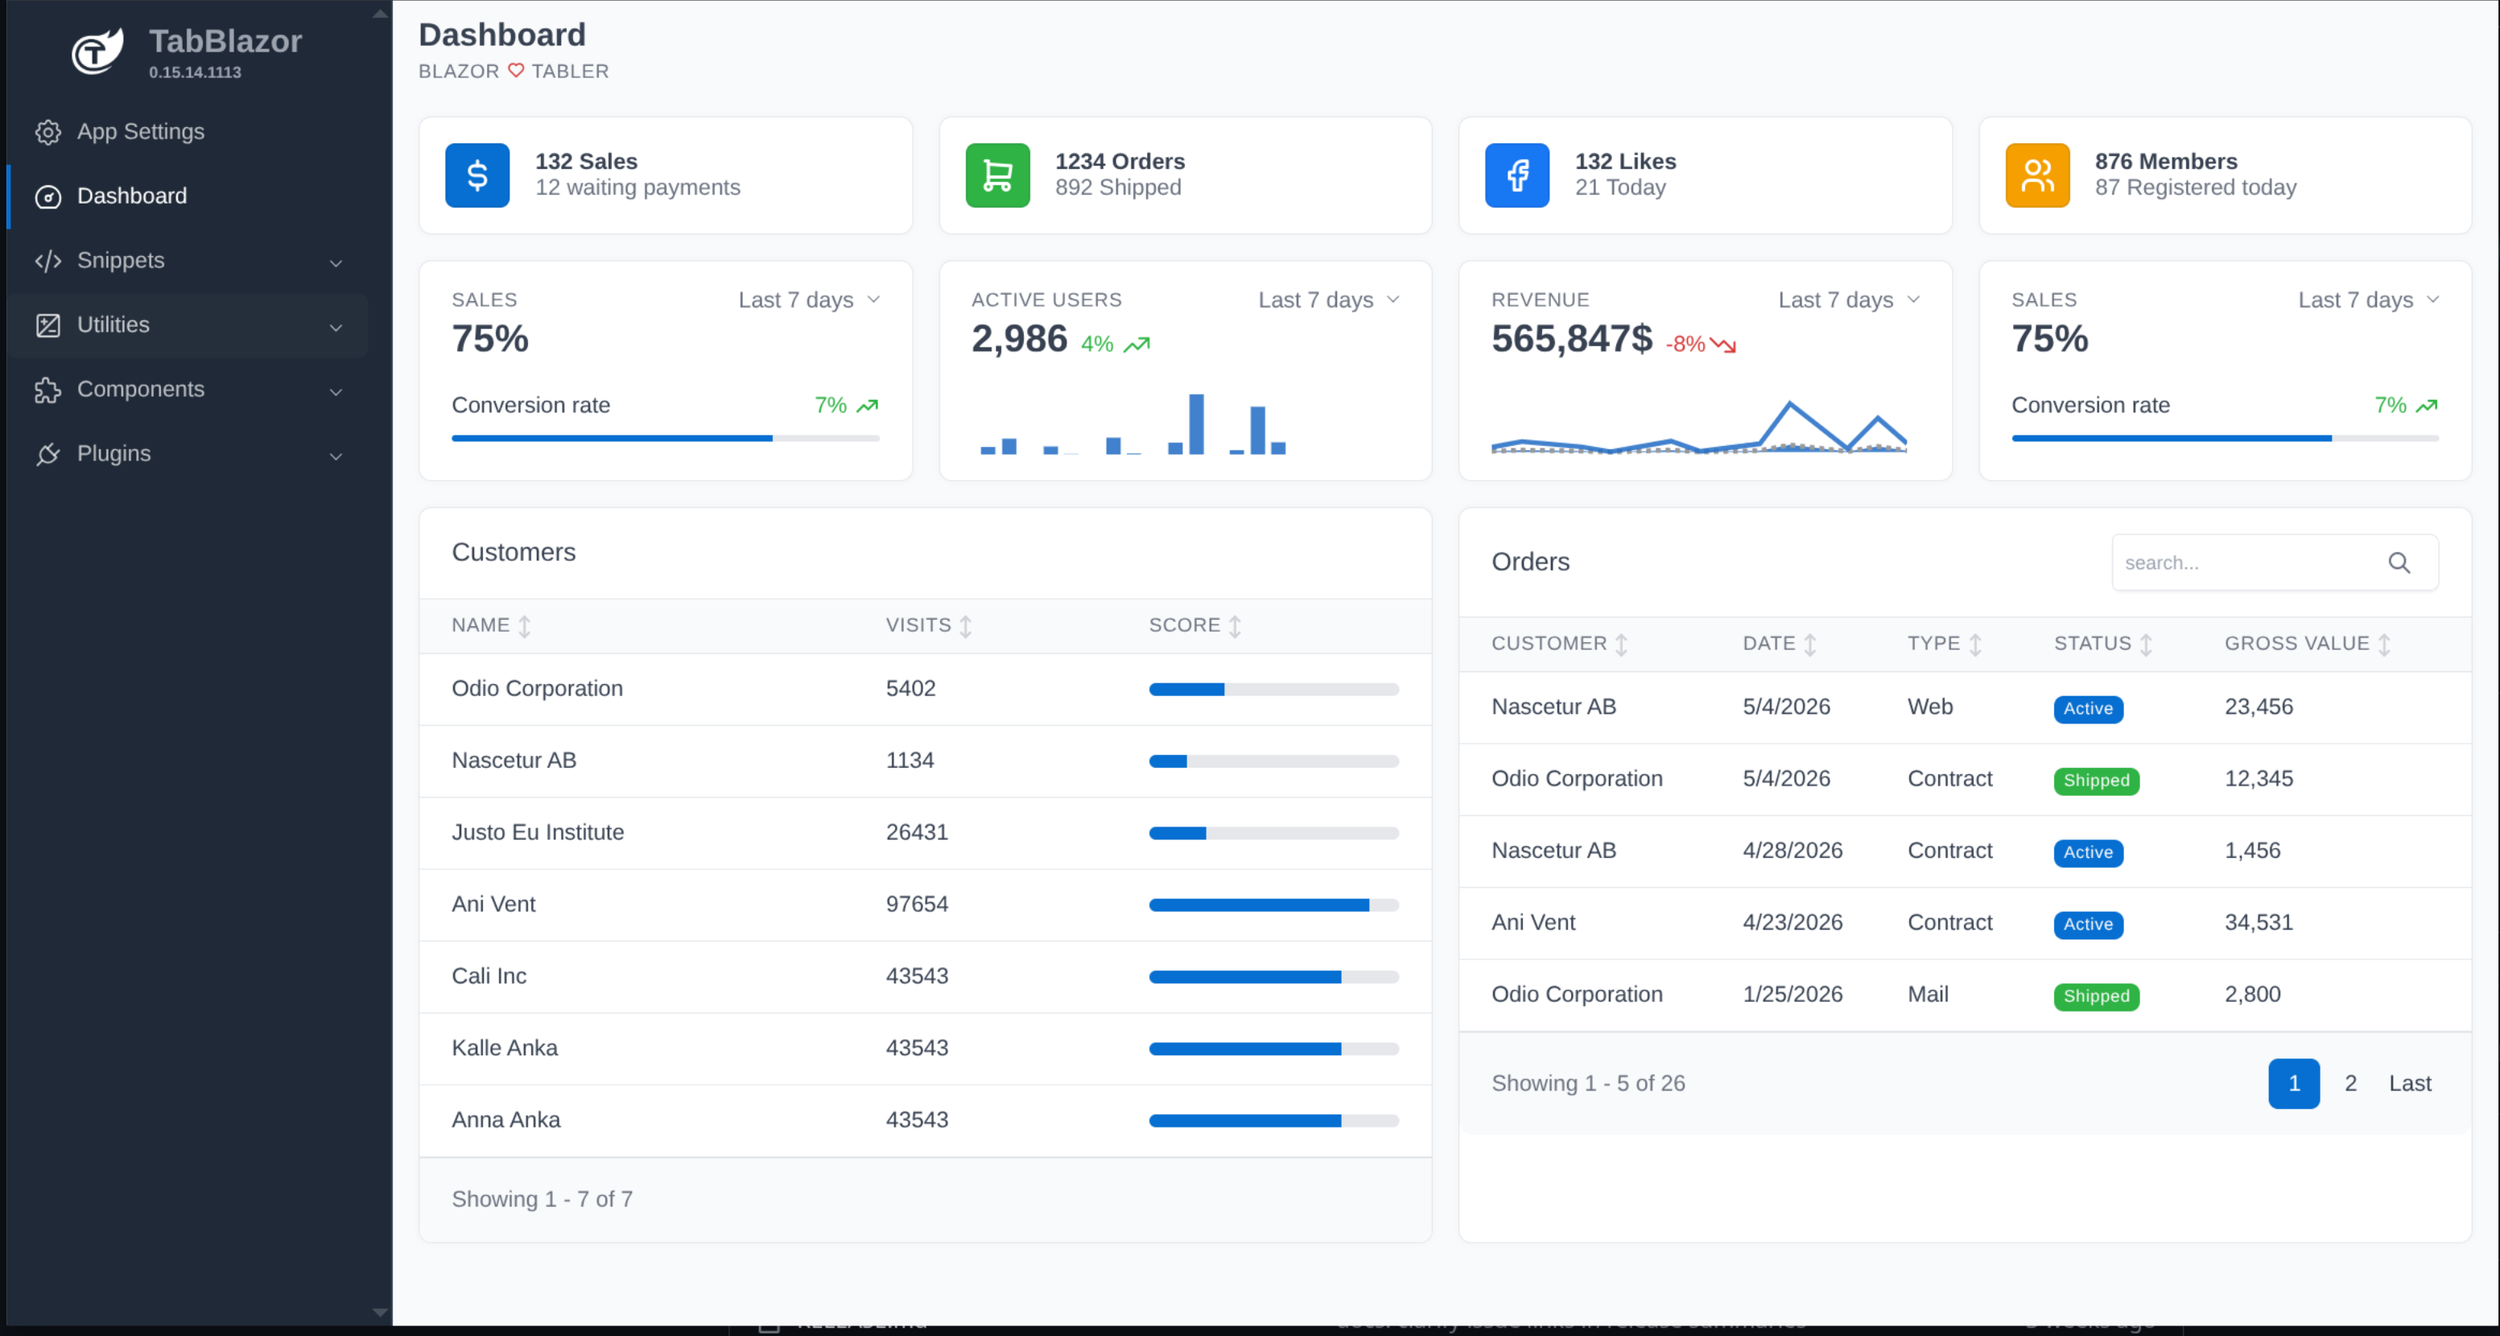
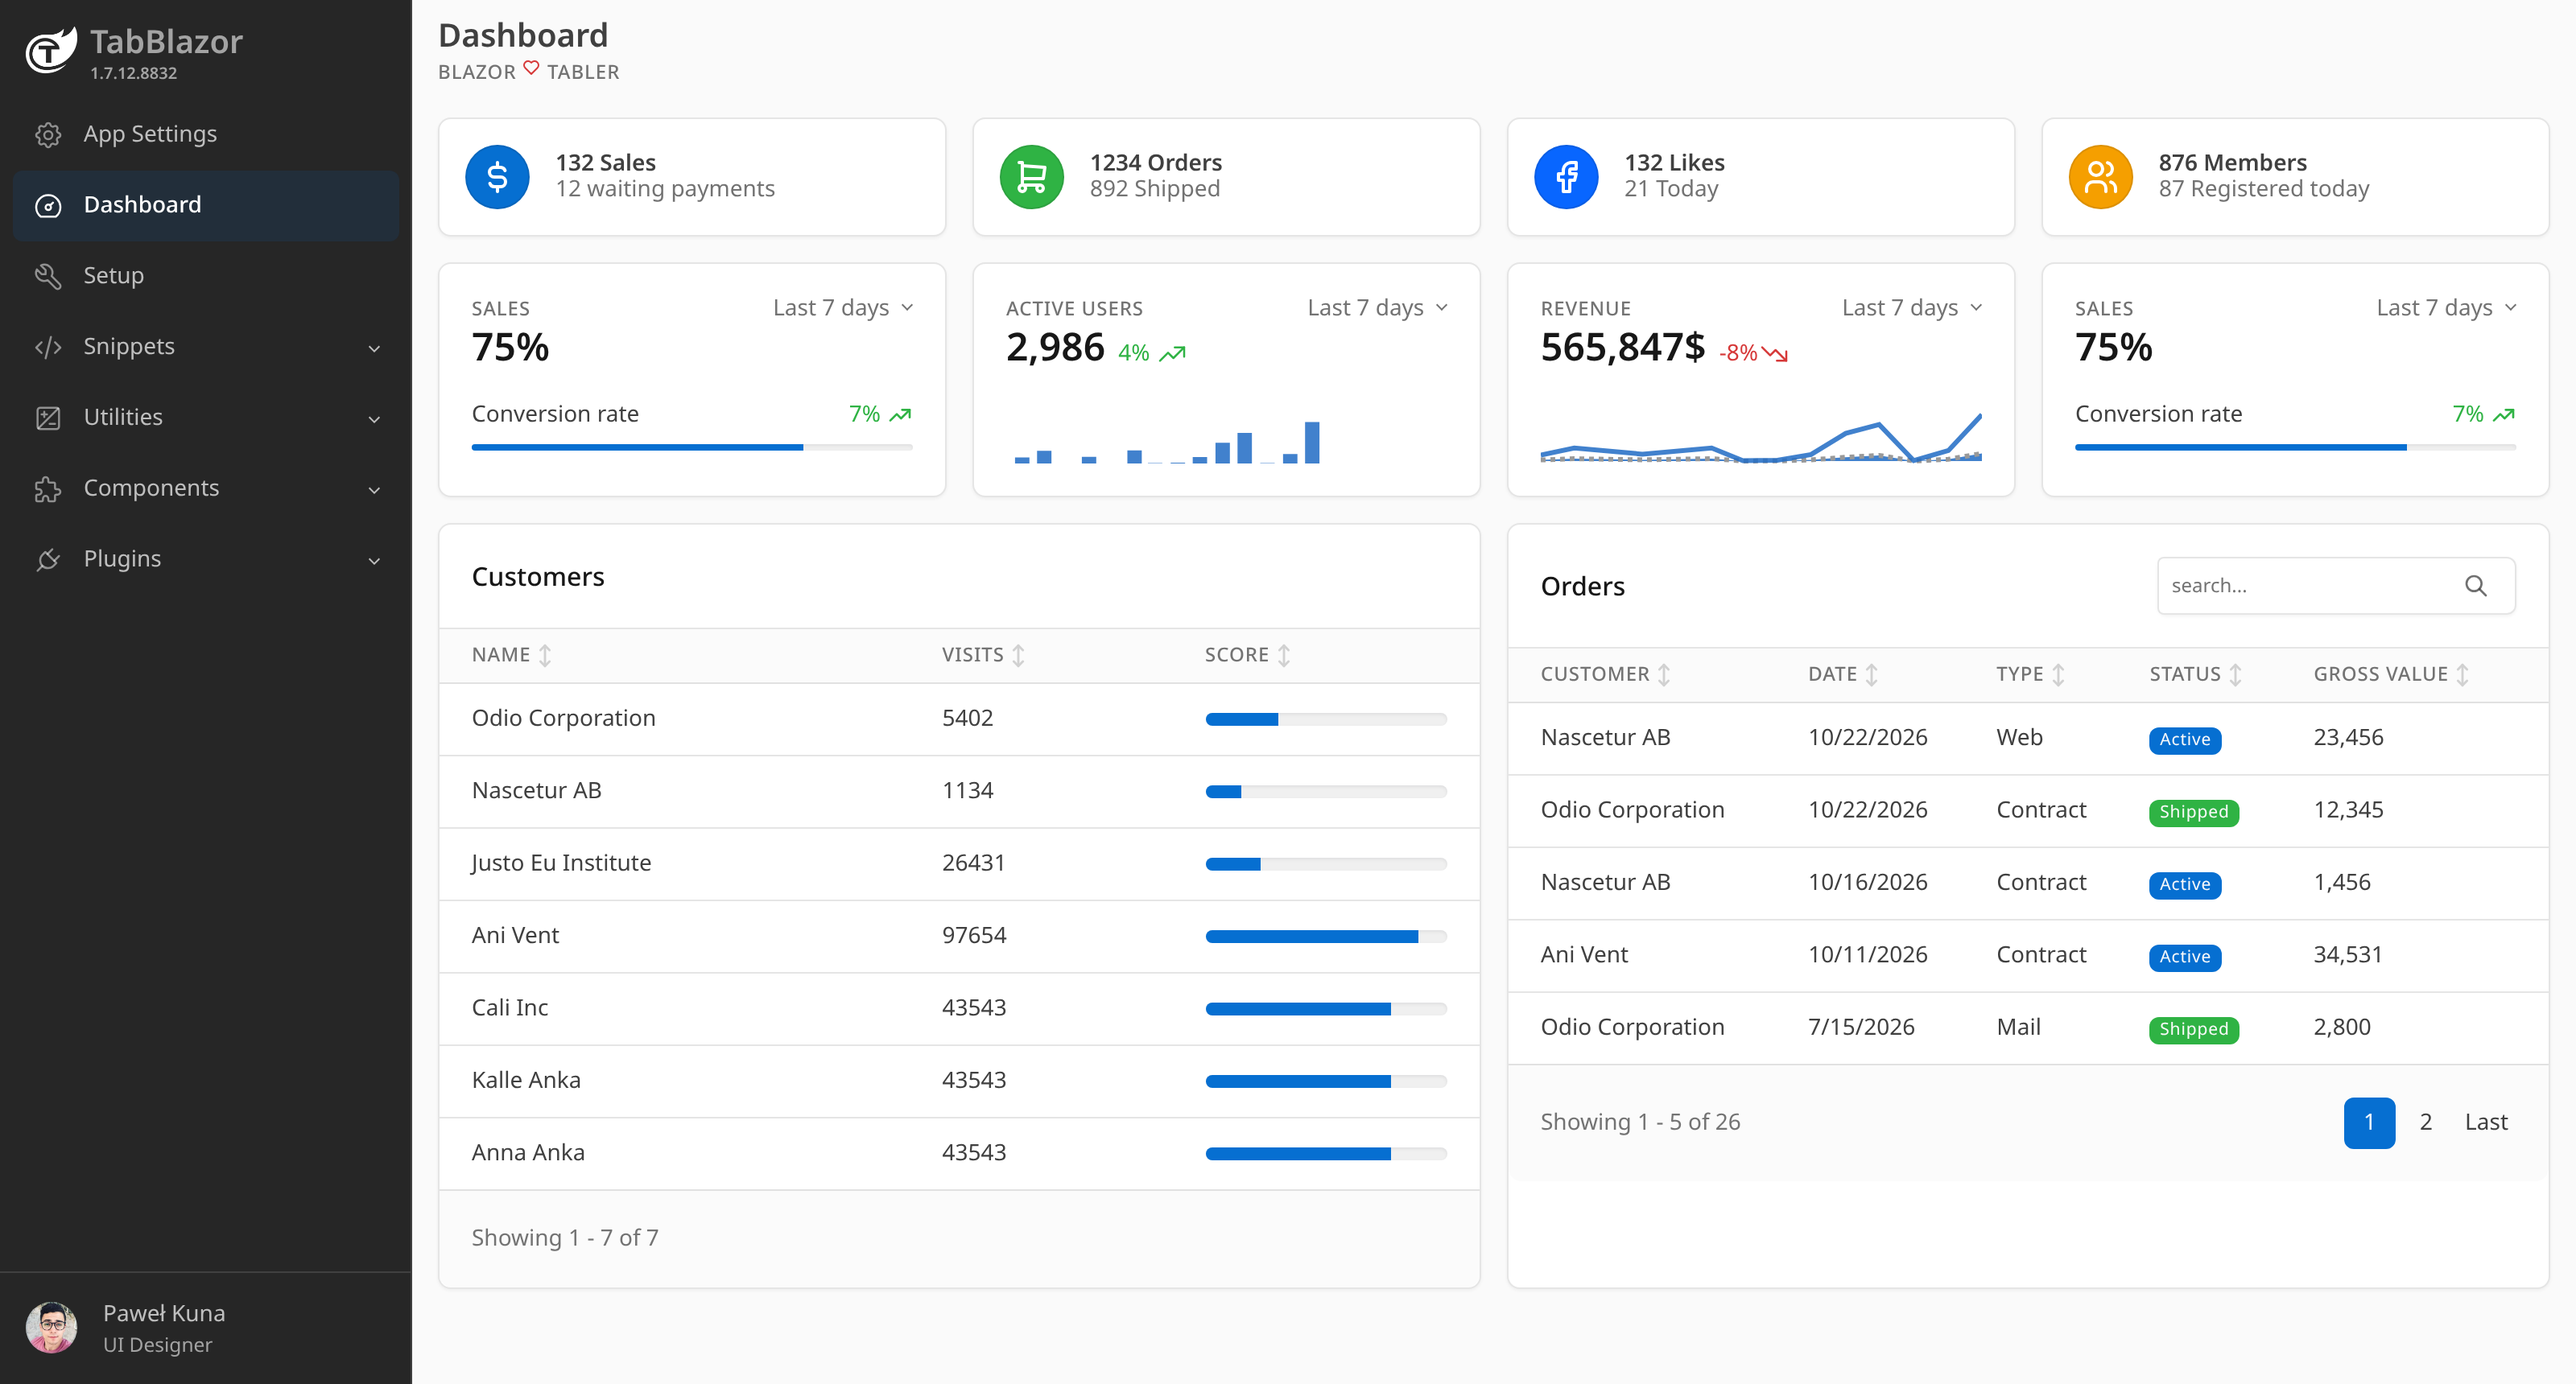
Bring the READMEs and screenshot up to date
The READMEs still described the 0.15-era library: no DataView, no Tabs
deep links or mobile bar, no .NET requirement, and the setup missed the
scoped CSS bundle that Tabs, DataView and Dropdown need. The dashboard
screenshot showed version 0.15 on Tabler 1.0.

diff --git a/README.md b/README.md
@@ -13,19 +13,23 @@ A Blazor component library and admin template built on the [Tabler](https://prev
 
 ## Features
 
-- 90+ Razor components (forms, tables, modals, dashboards, navigation)
-- **QuickTable** with virtual scrolling, sorting, filtering, grouping; optional EF Core integration
-- Pluggable form validation (DataAnnotations by default; bring your own `IFormValidator`)
-- Modal and offcanvas services with async result patterns
-- Dark/light theme switch
-- Minimal JavaScript interop — most components are pure C#/CSS
-- Opt-in popper.js positioning for tooltips, dropdowns, etc.
+- 90+ Razor components on Tabler 1.7: forms, cards, modals, offcanvas, navigation, dashboards
+- **DataView** (preview): one data component for tables and lists, with sorting, search, column filters, editing, selection, row actions, detail rows, virtualization and URL state. It reads from any `IDataViewSource<T>`, such as an in-memory list or your own EF Core or API query.
+- **QuickTable** and **Table** for existing screens; optional EF Core adapter for QuickTable
+- **Tabs** with deep links, preloading, keep-alive and a bottom tab bar on phones
+- Form inputs (Autocomplete, Typeahead, ItemSelect, Datepicker, NumberInput, Select, range slider) with pluggable validation: DataAnnotations by default, or bring your own `IFormValidator`
+- Modal, offcanvas and toast services with async results
+- Sparkline, Signal, Status, Timeline, TreeView, Confetti and more
+- Dark/light theme switch; localizable DataView texts
+- Minimal JavaScript interop; opt-in Popper positioning for tooltips and dropdowns
 
 ## Install
 
+Requires .NET 10.
+
 ```bash
 dotnet add package TabBlazor
-dotnet add package TabBlazor.QuickTable.EntityFramework   # optional, EF Core integration
+dotnet add package TabBlazor.QuickTable.EntityFramework   # optional, EF Core adapter for QuickTable
 ```
 
 Register services in `Program.cs`:
@@ -48,8 +52,13 @@ Reference styles and scripts in `App.razor` (or `index.html` for WebAssembly):
 ```html
 <link rel="stylesheet" href="https://unpkg.com/@tabler/core@1.7.0/dist/css/tabler.min.css" />
 <link rel="stylesheet" href="_content/TabBlazor/css/tabblazor.min.css" />
+<link rel="stylesheet" href="YourApp.styles.css" />
 <script src="_content/TabBlazor/js/tabblazor.js"></script>
 ```
+
+`YourApp.styles.css` is the scoped CSS bundle that the Blazor project templates already link. Components such as Tabs, DataView and Dropdown take part of their styling from it.
+
+The package also ships an `AGENTS.md` with usage notes for AI coding agents.
 
 ## Quick example
 
@@ -62,6 +71,17 @@ Reference styles and scripts in `App.razor` (or `index.html` for WebAssembly):
         <Button BackgroundColor="TablerColor.Primary" OnClick="Save">Save</Button>
     </CardBody>
 </Card>
+```
+
+A table with sorting, search and paging:
+
+```razor
+<DataView Items="orders" Title="Orders" KeySelector="o => o.Id" PageSize="10">
+    <DataColumn Value="o => o.OrderNo" Title="Order" Sortable Searchable />
+    <DataColumn Value="o => o.Customer" Sortable Searchable />
+    <DataColumn Value="o => o.OrderDate" Title="Date" Format="yyyy-MM-dd" Sortable DefaultSort="SortOrder.Descending" />
+    <DataColumn Value="o => o.Total" Format="N2" Sortable />
+</DataView>
 ```
 
 See the [demo site](https://tabblazor.com) for hundreds of working examples with source.
@@ -85,6 +105,10 @@ Build and test the full solution:
 dotnet build TabBlazor.slnx -c Release
 dotnet test
 ```
+
+## License
+
+MIT, see [LICENSE](LICENSE).
 
 ## Credits
 

diff --git a/src/TabBlazor/README.md b/src/TabBlazor/README.md
@@ -2,16 +2,20 @@
 
 Blazor component library built on the [Tabler](https://tabler.io/) UI framework.
 
-- 90+ Razor components: forms, tables, modals, dashboards, navigation
-- **QuickTable** with virtual scrolling, sort, filter, group
-- Pluggable form validation (DataAnnotations by default)
-- Modal and offcanvas services with async result patterns
+- 90+ Razor components on Tabler 1.7: forms, cards, modals, offcanvas, navigation, dashboards
+- **DataView** (preview): tables and lists with sorting, search, column filters, editing, selection, row actions, detail rows, virtualization and URL state
+- **QuickTable** and **Table** for existing screens
+- **Tabs** with deep links, preloading, keep-alive and a bottom tab bar on phones
+- Form inputs with pluggable validation (DataAnnotations by default)
+- Modal, offcanvas and toast services with async results
 - Dark/light theme switch
 - Minimal JavaScript interop
 
 **[Live demo & docs](https://tabblazor.com)** · **[GitHub](https://github.com/TabBlazor/TabBlazor)**
 
 ## Install
+
+Requires .NET 10.
 
 ```bash
 dotnet add package TabBlazor
@@ -37,8 +41,13 @@ Reference styles and scripts in `App.razor` (or `index.html` for WebAssembly):
 ```html
 <link rel="stylesheet" href="https://unpkg.com/@tabler/core@1.7.0/dist/css/tabler.min.css" />
 <link rel="stylesheet" href="_content/TabBlazor/css/tabblazor.min.css" />
+<link rel="stylesheet" href="YourApp.styles.css" />
 <script src="_content/TabBlazor/js/tabblazor.js"></script>
 ```
+
+`YourApp.styles.css` is the scoped CSS bundle that the Blazor project templates already link. Components such as Tabs, DataView and Dropdown take part of their styling from it.
+
+This package includes `AGENTS.md`, usage notes for AI coding agents.
 
 ## Quick example
 
@@ -51,6 +60,14 @@ Reference styles and scripts in `App.razor` (or `index.html` for WebAssembly):
         <Button BackgroundColor="TablerColor.Primary" OnClick="Save">Save</Button>
     </CardBody>
 </Card>
+```
+
+```razor
+<DataView Items="orders" Title="Orders" KeySelector="o => o.Id" PageSize="10">
+    <DataColumn Value="o => o.OrderNo" Title="Order" Sortable Searchable />
+    <DataColumn Value="o => o.OrderDate" Title="Date" Format="yyyy-MM-dd" Sortable DefaultSort="SortOrder.Descending" />
+    <DataColumn Value="o => o.Total" Format="N2" Sortable />
+</DataView>
 ```
 
 ## Related packages
